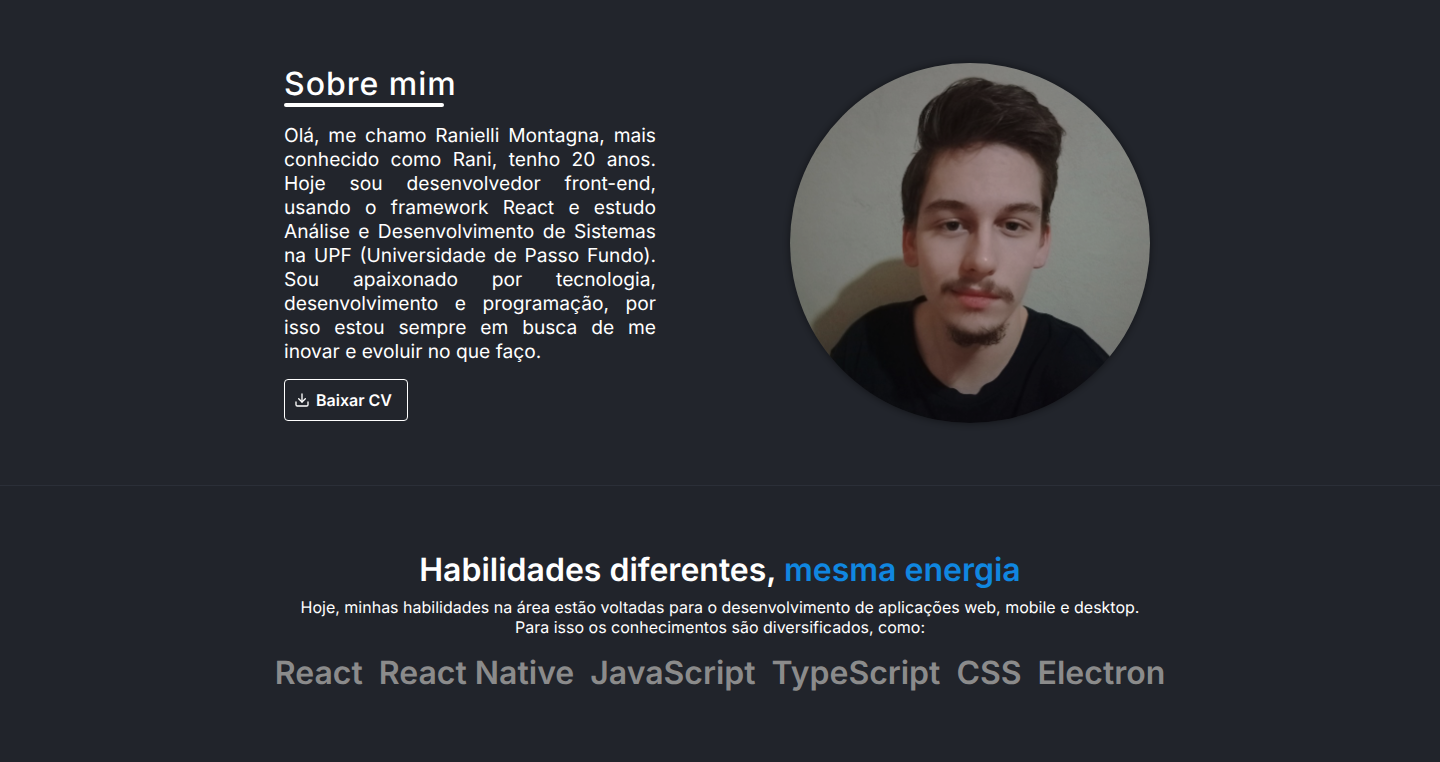
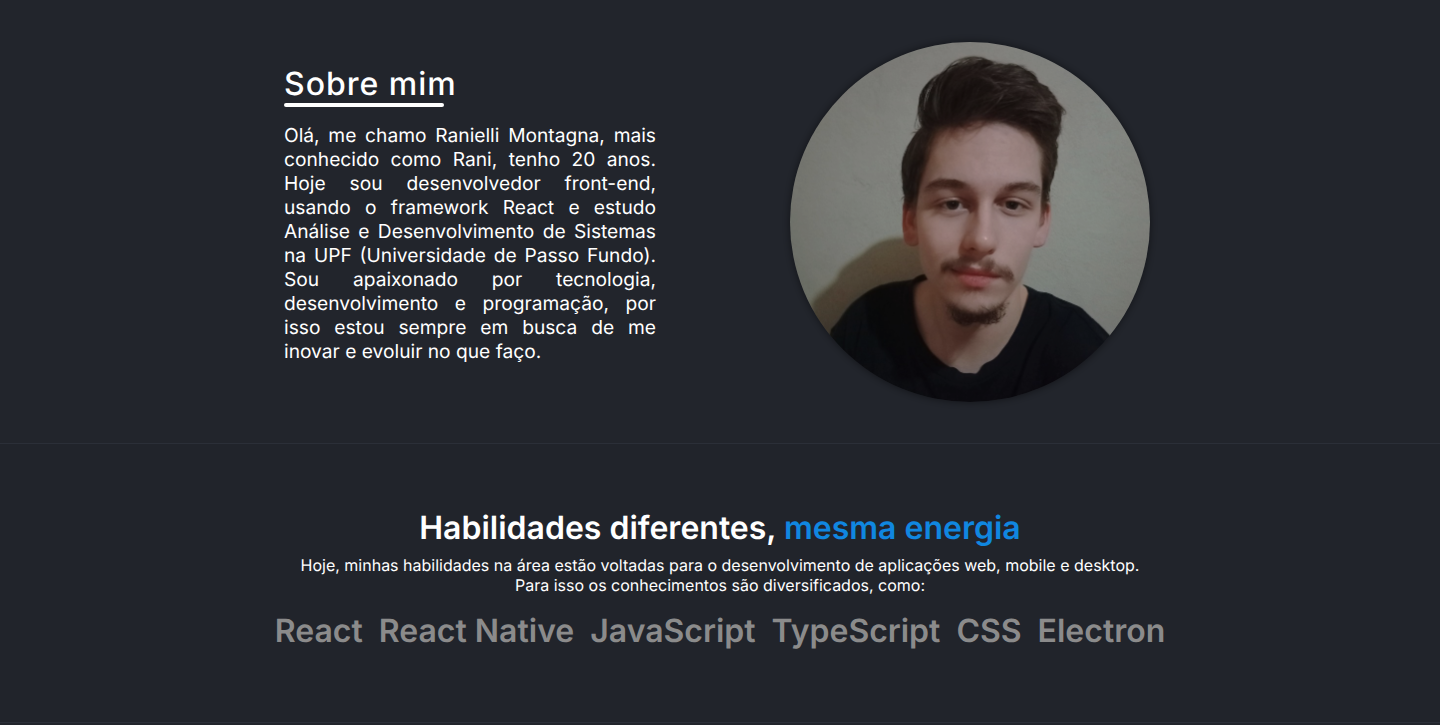
docs: note the CV removal in the README

diff --git a/README.md b/README.md
@@ -2,7 +2,7 @@
 
 # 2022.ranimontagna.com
 
-**My personal site in 2022: a one-page React app with a typewriter hero, an about section with my CV, study and work timelines and contact cards. It was ranimontagna.com before [2024.ranimontagna.com](https://github.com/RanielliMontagna/2024.ranimontagna.com) replaced it.**
+**My personal site in 2022: a one-page React app with a typewriter hero, an about section, study and work timelines and contact cards. It was ranimontagna.com before [2024.ranimontagna.com](https://github.com/RanielliMontagna/2024.ranimontagna.com) replaced it.**
 
 ![Status](https://img.shields.io/badge/status-archived-6e7781?style=for-the-badge)
 ![React](https://img.shields.io/badge/React_17-20232A?style=for-the-badge&logo=react&logoColor=61DAFB)
@@ -33,7 +33,7 @@ I built this site between April and August 2022, while I worked as a front-end d
 
 - **Title bar** with links (Início, Sobre, Contato) that scroll smoothly with react-scroll and highlight the section on screen.
 - **Hero** with three typewriter lines.
-- **About me** with my photo and a "Baixar CV" button for `public/curriculo.pdf`.
+- **About me** with my photo. A "Baixar CV" button opened my CV until October 2026, when the CV came out because it had my phone number.
 - **Skills**, then **studies** and **experience** as vertical timelines.
 - **Contact** cards for e-mail and LinkedIn, and a footer with social links. A WhatsApp card with my number was removed in October 2026.
 - Reveal animations with AOS.
@@ -60,7 +60,7 @@ Taken in October 2026 from a local production build. The styles ask for the Qane
 ## Project layout
 
 ```text
-public/                 # index.html with SEO and Open Graph tags, web manifest, icons and CV
+public/                 # index.html with SEO and Open Graph tags, web manifest and icons
 src/
 ├── pages/Home/         # titleBar, intro, sobre, habilidades, estudos, experiencia, contato, footer
 ├── components/         # typography, button, divider, menu, modal, loading, typewriter, page header, layout
@@ -101,12 +101,12 @@ There are no tests. Use Yarn: `bun.lockb` comes from a July 2022 experiment and 
 ## Project history
 
 - **April 2022**: project created with the home, about, skills, contact and experience sections, then colors adjusted for contrast.
-- **May 2022**: CV download, smooth scrolling with the current section highlighted, accessibility labels, a robots meta tag and my photo.
+- **May 2022**: CV download (removed in 2026), smooth scrolling with the current section highlighted, accessibility labels, a robots meta tag and my photo.
 - **June 2022**: installable PWA with a web manifest and a Workbox service worker.
 - **July 2022**: reveal animations with AOS and a Bun lockfile.
 - **August 2022**: new experience entry. Last commit on 13 August 2022.
 - **September 2022**: the next version of the site, now 2024.ranimontagna.com, started.
-- **October 2026**: the unused `rm-design-system` dependency, no longer on npm, was removed so the install works again; the WhatsApp card came out; the site went back online on GitHub Pages at 2022.ranimontagna.com; the repository was renamed from `rani-website` and archived.
+- **October 2026**: the unused `rm-design-system` dependency, no longer on npm, was removed so the install works again; the WhatsApp card and the CV came out; the site went back online on GitHub Pages at 2022.ranimontagna.com; the repository was renamed from `rani-website` and archived.
 
 ## Author
 
